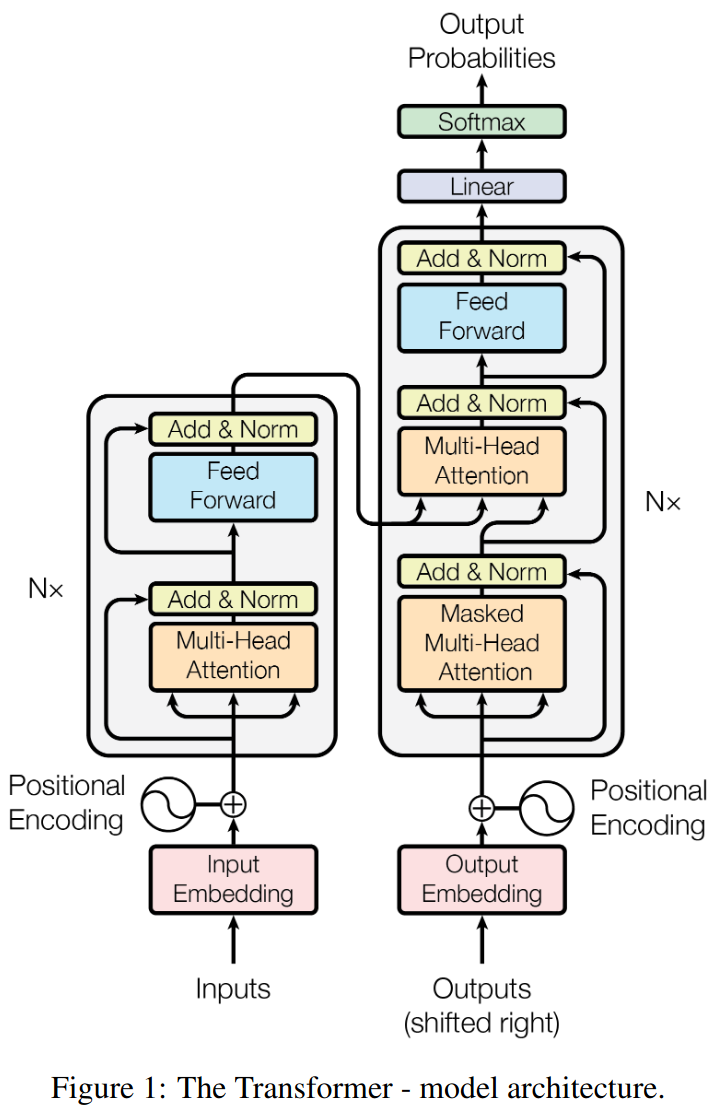
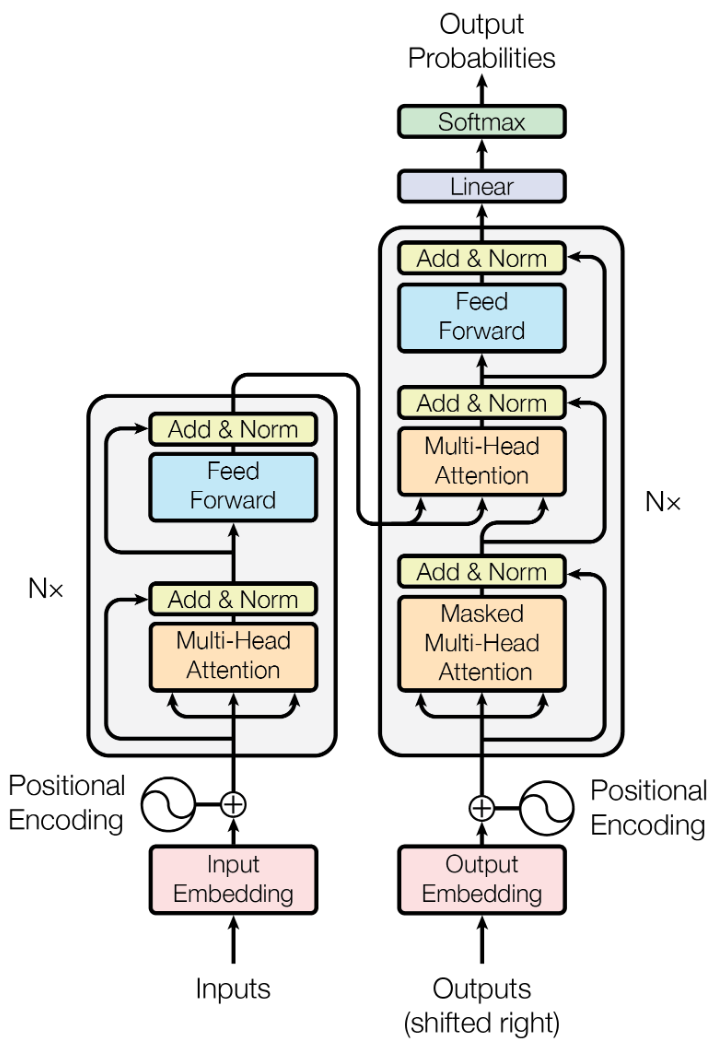
New intro text;
Figure based on "An Intro to Transformers" paper.

diff --git a/src/content/articles/AiAYN/figures/input-matrix.tex b/src/content/articles/AiAYN/figures/input-matrix.tex
@@ -1,0 +1,44 @@
+% Input matrix X^(0): N token columns, each a D-dimensional feature vector.
+% Build:  latex input-matrix.tex && dvisvgm --no-fonts input-matrix.dvi -o input-matrix.svg
+\documentclass[tikz,border=6pt]{standalone}
+\usepackage[T1]{fontenc}
+\usepackage{amsmath,bm}
+\usetikzlibrary{arrows.meta,calc,positioning,decorations.pathreplacing}
+
+\begin{document}
+\begin{tikzpicture}[
+  font=\sffamily\small,
+  note/.style={font=\sffamily\scriptsize, align=center, text=black!75},
+  bracket/.style={thick, line cap=round, line join=round},
+]
+  % ---- Matrix geometry ----------------------------------------------------
+  \def\W{3.2}   % matrix width
+  \def\H{1.6}   % matrix height
+  \def\T{0.15}  % length of the bracket ticks
+
+  % Square brackets
+  \draw[bracket] (\T,0)    -- (0,0)  -- (0,\H)  -- (\T,\H);
+  \draw[bracket] (\W-\T,0) -- (\W,0) -- (\W,\H) -- (\W-\T,\H);
+
+  % A single column: the feature vector of one token
+  \node[draw, thick, minimum width=0.28cm, minimum height=1.3cm, inner sep=0]
+    (col) at (\W/2, \H/2) {};
+
+  % ---- Left-hand side -----------------------------------------------------
+  \node[anchor=east] (eq) at (-0.15, \H/2) {$X^{(0)} \;=$};
+  \node[note, anchor=east] at ($(eq.west) + (-0.4, 0)$) {input};
+
+  % ---- Annotation above: arrow to the column ------------------------------
+  \node[above=0.6cm of col] (xn) {$\bm{x}_n^{(0)}$};
+  \draw[-{Stealth[length=4pt]}, thin] (xn.south) -- (col.north);
+  \node[note, left=2pt of xn] {vector of features\\for $n^{\text{th}}$ token};
+
+  % ---- Annotation below: number of columns --------------------------------
+  \node[note, anchor=north] at (\W/2, -0.2) {$N$ columns\\(tokens)};
+
+  % ---- Annotation right: brace + rotated label ----------------------------
+  \draw[decorate, decoration={brace, amplitude=5pt}, thin]
+    (\W+0.15, \H) -- (\W+0.15, 0);
+  \node[note, rotate=-90, anchor=south] at (\W+0.4, \H/2) {$D$ rows\\(features)};
+\end{tikzpicture}
+\end{document}
